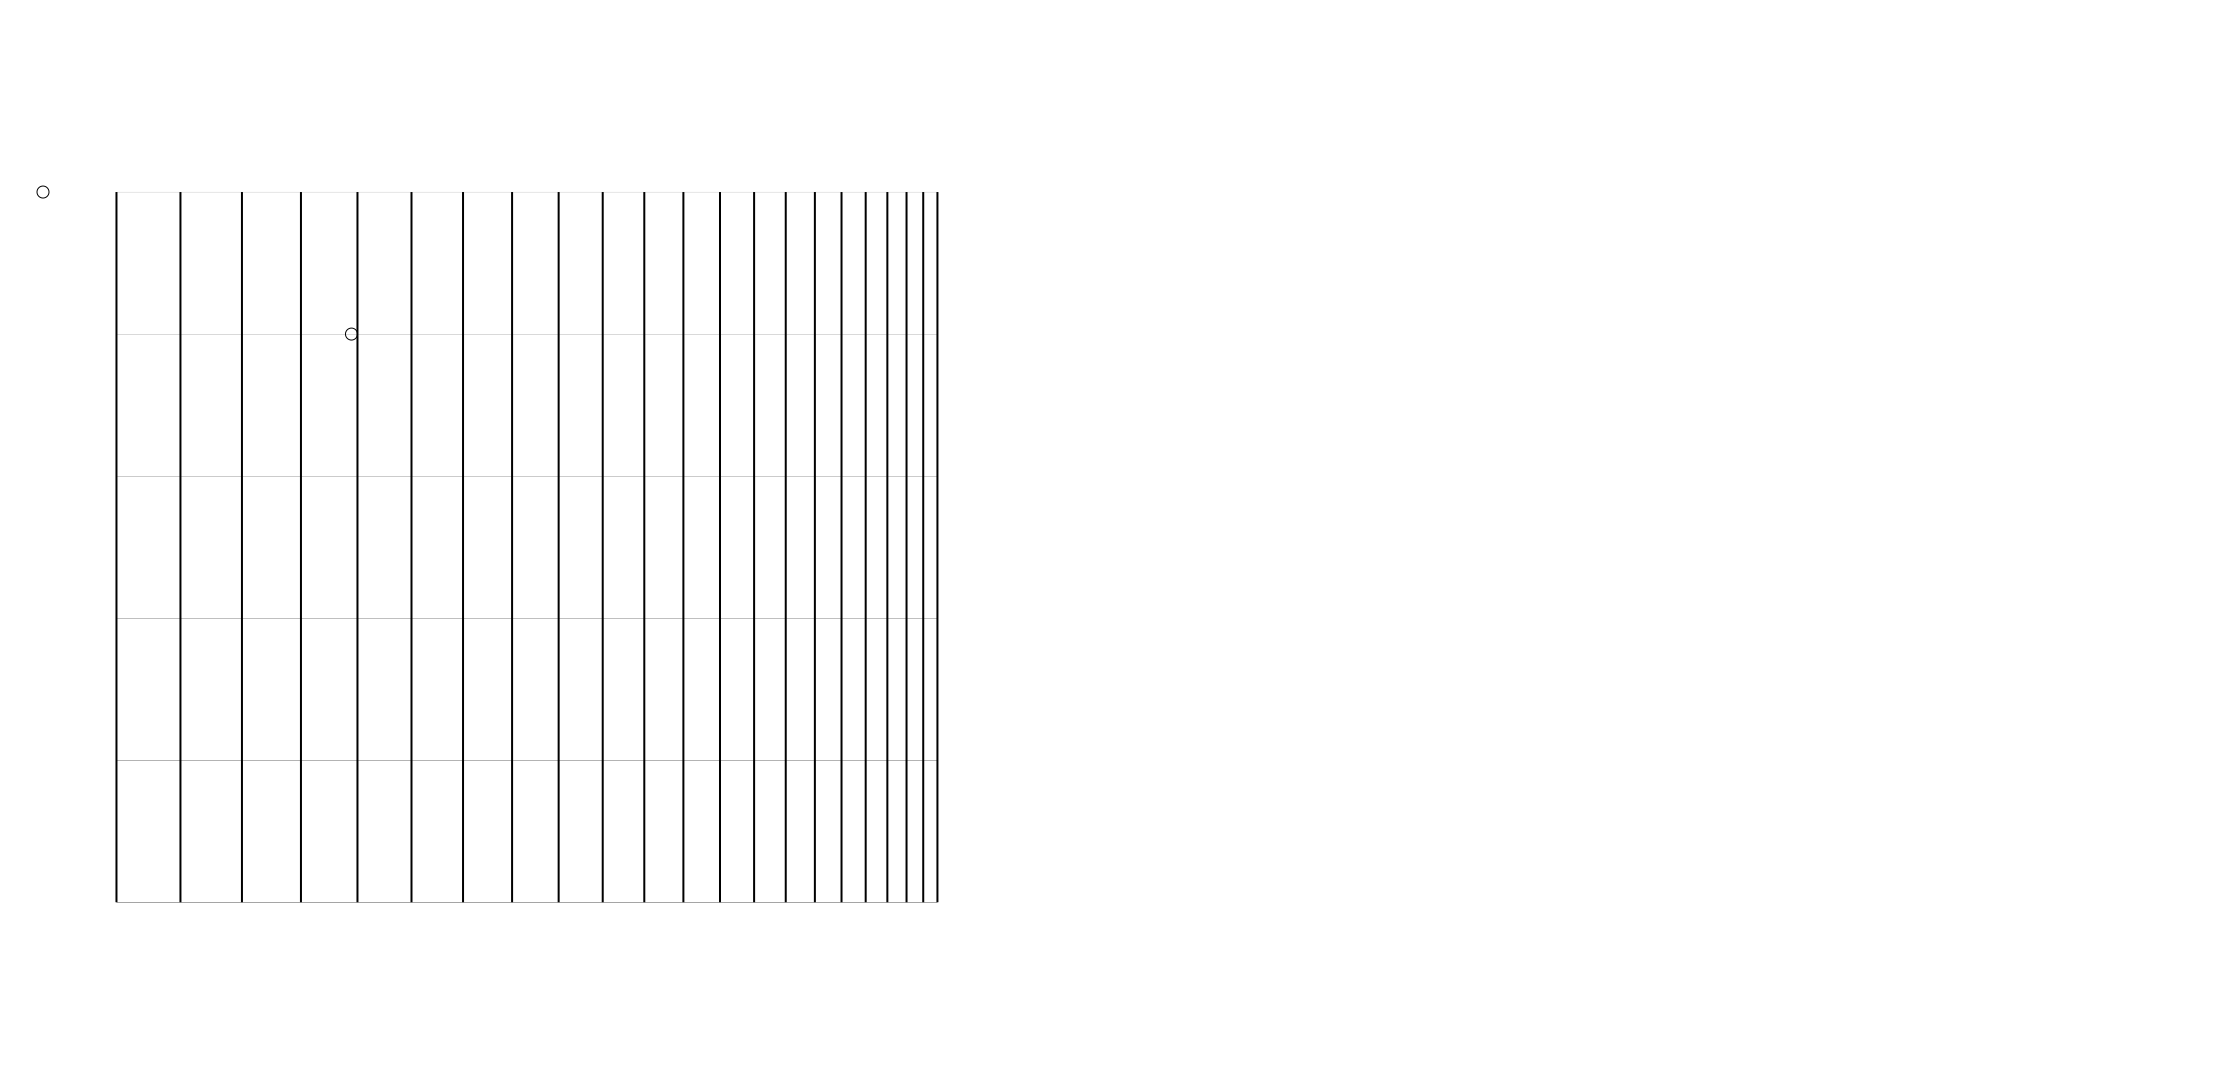
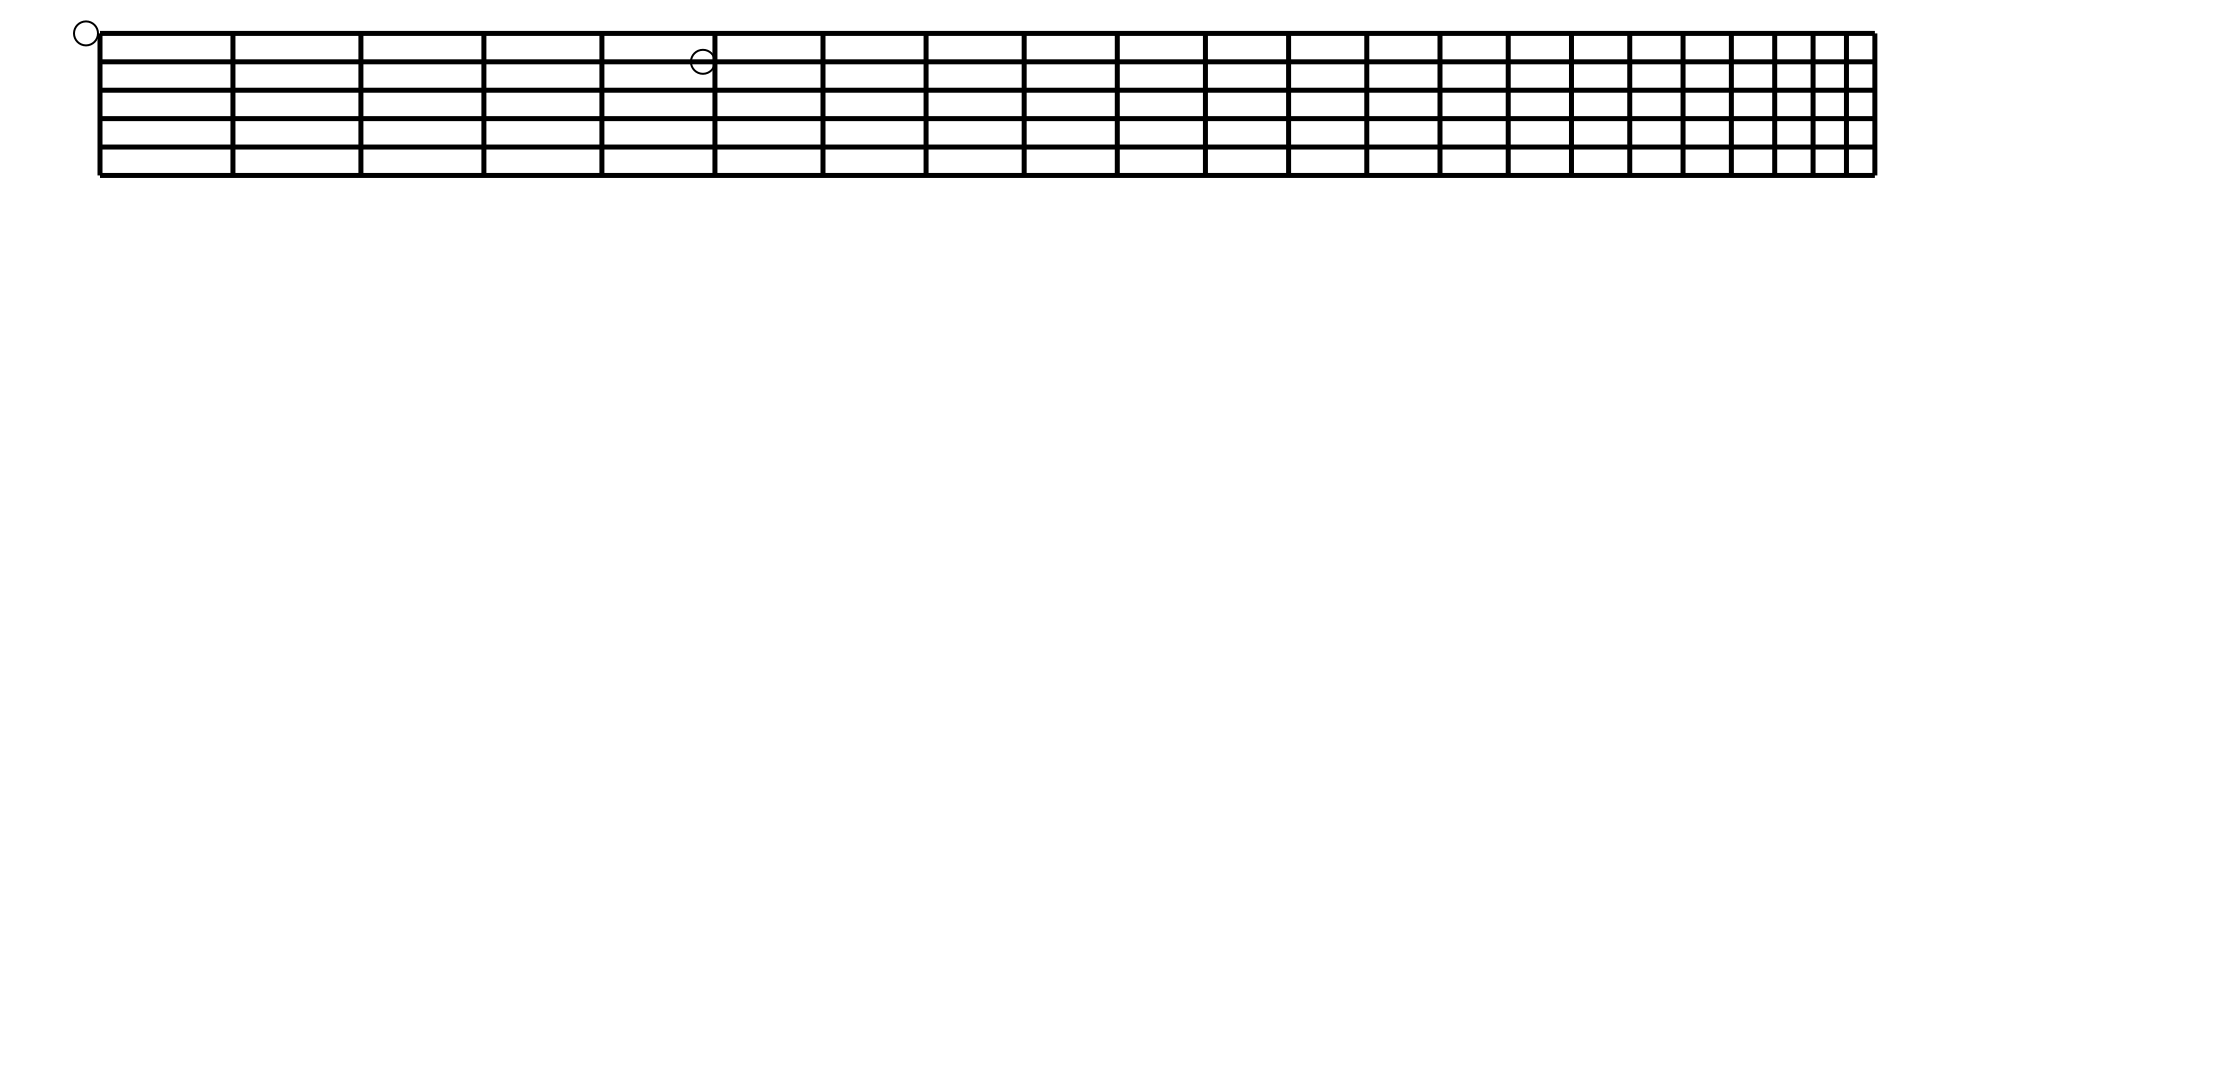
Consolidate transforms, fix fret numbers (nut is 0).

diff --git a/fretboard.py b/fretboard.py
@@ -1,15 +1,24 @@
-# TODO: MVP is static image of one scale one position, all markers same.
-# TODO: draw notes.
-# TODO: text labels on notes (note name or scale degree).
-# TODO: scale numbers as required.
-# TODO: draw dimensions with padding etc.
-# TODO: separate function to get XY positions for given fret and string.
-# TODO: optimise dimensions and DPI for phone and tablet (save both).
-# TODO: how to integrate sheet music? Just paste as image?
-# TODO: make indexing for frets and notes consistent (missing fret 0?).
-# TODO: enforce minimum sizes, line widths (not sub-pixel).
-# TODO: specify bounding box, dimensions within it normalised to [0, 1],
-# use this to combine e.g. fretboard and piano in single frame.
+"""
+Draws images of a guitar fretboard with given notes marked.
+
+TODO:
+Adapt to different string numbers: bass, ukelele, extended guitar.
+Equal fret spacing: simpler.
+Show notes of open strings (tuning).
+MVP is static image of one scale one position, all markers same.
+Text labels on notes (note name or scale degree).
+Scale numbers as required.
+Draw 
+Draw dimensions with padding etc.
+Separate function to get XY positions for given fret and string.
+Optimise dimensions and DPI for phone and tablet (save both).
+How to integrate sheet music? Just paste as image?
+Make indexing for frets and notes consistent (missing fret 0?).
+Enforce minimum sizes, line widths (not sub-pixel).
+Specify bounding box, dimensions within it normalised to [0, 1],
+    use this to combine e.g. fretboard and piano in single frame.
+Can lines have rounded ends? If not, make own? Or switch to SVG?
+"""
 
 from dataclasses import dataclass
 import math
@@ -39,8 +48,7 @@ c2 = -0.13827529
 c1 = 7.52403813
 b = (100 - 2*padding)/100
 # strokeWidth = .3
-string_sizes = [.1, .15, .2, .25, .3, .35]  # TODO: adapt for bass etc. (just define min and max then interpolate).
-scaling = 10  # TODO: remove need for this (proper dimensions).
+scaling = 20  # TODO: remove need for this (proper dimensions).
 image_width = 2220
 image_height = 1080
 
@@ -61,23 +69,23 @@ def get_fret_x_position(fret):
 
 
 def get_string_y_position(string):
+    # Make string spacing match closest fret spacing.
     string_spacing = get_fret_x_position(num_frets) - get_fret_x_position(num_frets - 1)
-    return scaling*(padding + string_spacing*string)
+    return padding + string_spacing*string
 
 
 def draw_frets(context):
     y1 = get_string_y_position(1)
     y2 = get_string_y_position(num_strings)
-    for i in range(num_frets):
-        x = get_fret_x_position(i + 1)
+    for i in range(num_frets + 1):
+        x = get_fret_x_position(i)
         draw_line(context, x, y1, x, y2)
 
 
 def draw_strings(context):
-    x1 = get_fret_x_position(1)
+    x1 = get_fret_x_position(0)
     x2 = get_fret_x_position(num_frets)
     for i in range(num_strings):
-        context.set_line_width(string_sizes[i])
         y = get_string_y_position(i + 1)
         draw_line(context, x1, y, x2, y)
 
@@ -95,44 +103,33 @@ def draw_notes(context, notes: List[NoteMarker]):
             draw_circle(context, x, y, r)  # TODO: fill
 
 
-def transform_global_to_normed(x1, y1, x2, y2):
-    def transform(x, y):
-        u = (x - x1)/(x2 - x1)
-        v = (y - y1)/(y2 - y1)
-        return u, v
-    return transform
+def get_transforms(top_left: Point, bottom_right: Point):
+    def global_to_normed(point: Point):
+        u = (point.x - top_left.x)/(bottom_right.x - top_left.x)
+        v = (point.y - top_left.y)/(bottom_right.y - top_left.y)
+        return Point(u, v)
 
+    def normed_to_global(point: Point):
+        x = top_left.x + point.x*(bottom_right.x - top_left.x)
+        y = top_left.y + point.y*(bottom_right.y - top_left.y)
+        return Point(x, y)
 
-# TODO: return both transforms as a pair.
-def transform_normed_to_global(x1, y1, x2, y2):
-    def transform(u, v):
-        x = x1 + u*(x2 - x1)
-        y = y1 + v*(y2 - y1)
-        return x, y
-    return transform
+    return global_to_normed, normed_to_global
 
 
 def debug_transform():
-    # TODO: Point dataclass. Do you get print for free? Does Cairo have?
-    x1 = 0
-    y1 = 0
-    x2 = image_width
-    y2 =  image_height
-    transform = transform_global_to_normed(x1, y1, x2, y2)
-    u1, v1 = transform(x1, y1)
-    u2, v2 = transform(x2, y2)
-    print(f'(u1, v1) = ({u1}, {v1})')
-    print(f'(u2, v2) = ({u2}, {v2})')
+    # TODO: Box wrapper to handle transforms underneath? Draw in (u, v).
+    tl = Point(0, 0)
+    br = Point(image_width, image_height)
+    global_to_normed, normed_to_global = get_transforms(tl, br)
+    a = global_to_normed(tl)
+    b = global_to_normed(br)
+    print(a)
+    print(b)
 
-    inverse = transform_normed_to_global(x1, y1, x2, y2)
-    u1 = 0
-    v1 = 0
-    u2 = 1
-    v2 = 1
-    x1, y1 = inverse(u1, v1)
-    x2, y2 = inverse(u2, v2)
-    print(f'(x1, y1) = ({x1}, {y1})')
-    print(f'(x2, y2) = ({x2}, {y2})')
+    br2 = Point(1, 1)
+    c = normed_to_global(br2)
+    print(c)
 
 
 def main():
@@ -141,15 +138,19 @@ def main():
     context = cairo.Context(surface)
 
     # Set white background
-    context.set_source_rgb(1, 1, 1)  # White color
+    white = (1, 1, 1)
+    context.set_source_rgb(*white)
     context.paint()
 
     # Set antialiasing mode
     context.set_antialias(cairo.ANTIALIAS_BEST)
 
-    # Set line width and color
-    context.set_line_width(2)
-    context.set_source_rgb(0, 0, 0)  # Black color
+    # Set line width and color.
+    # TODO: move into draw functions.
+    black = (0, 0, 0)
+    line_width = 5  # TODO: scale with image.
+    context.set_line_width(line_width)
+    context.set_source_rgb(*black)
 
     draw_frets(context)
     draw_strings(context)
@@ -190,5 +191,5 @@ def main():
 
 
 if __name__ == '__main__':
-    # main()
-    debug_transform()
+    main()
+    # debug_transform()
